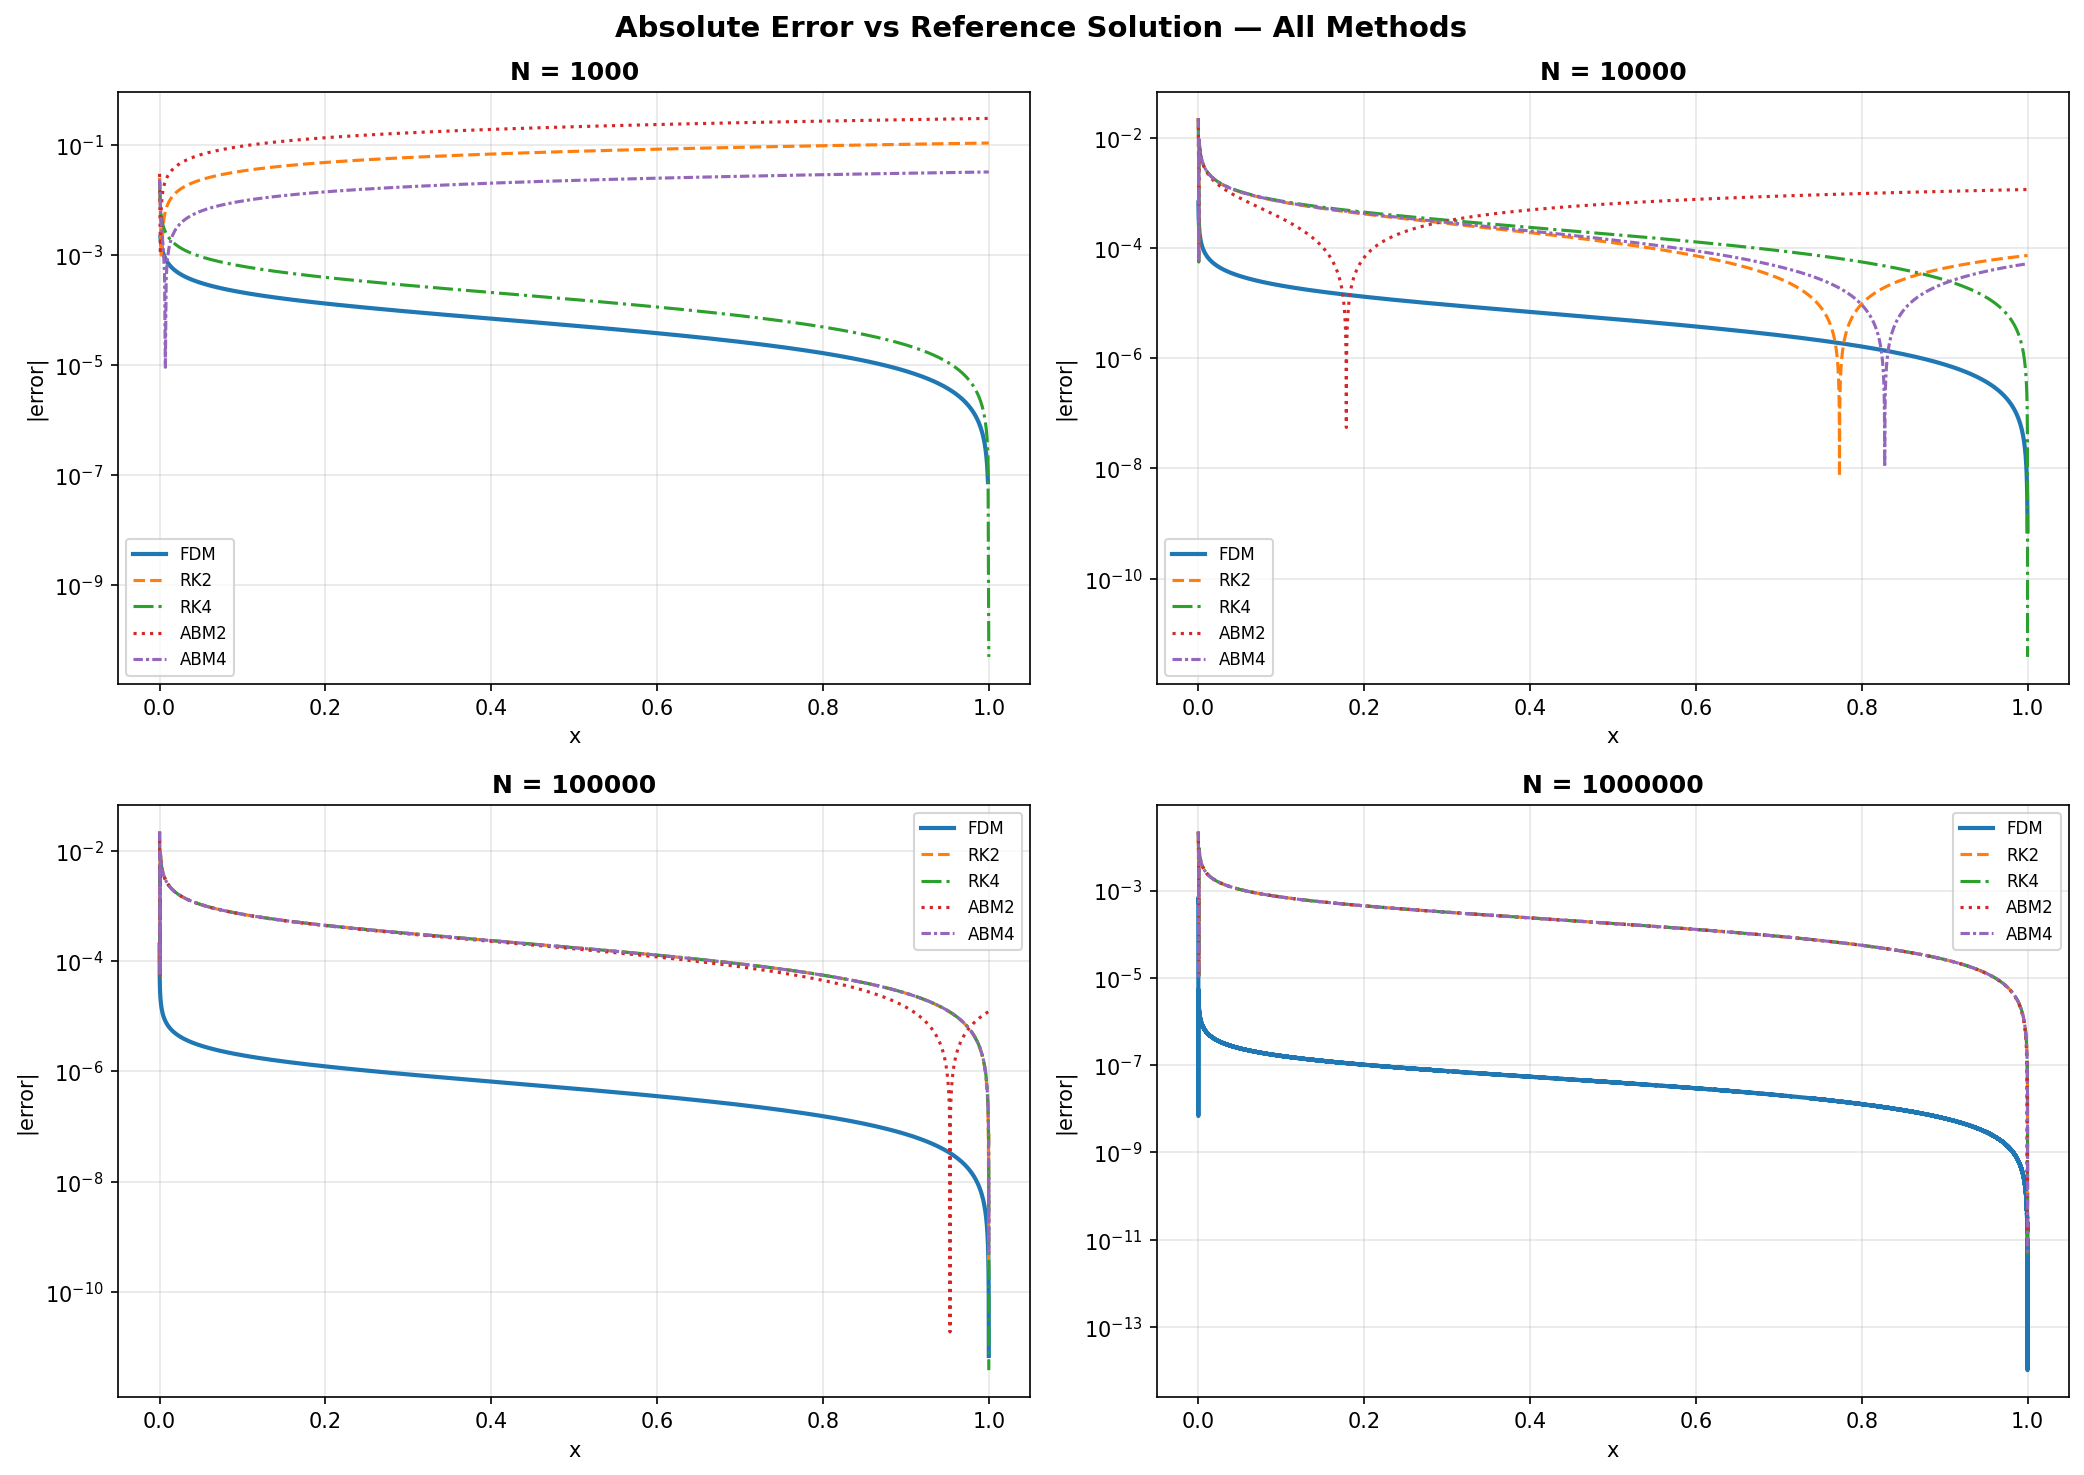
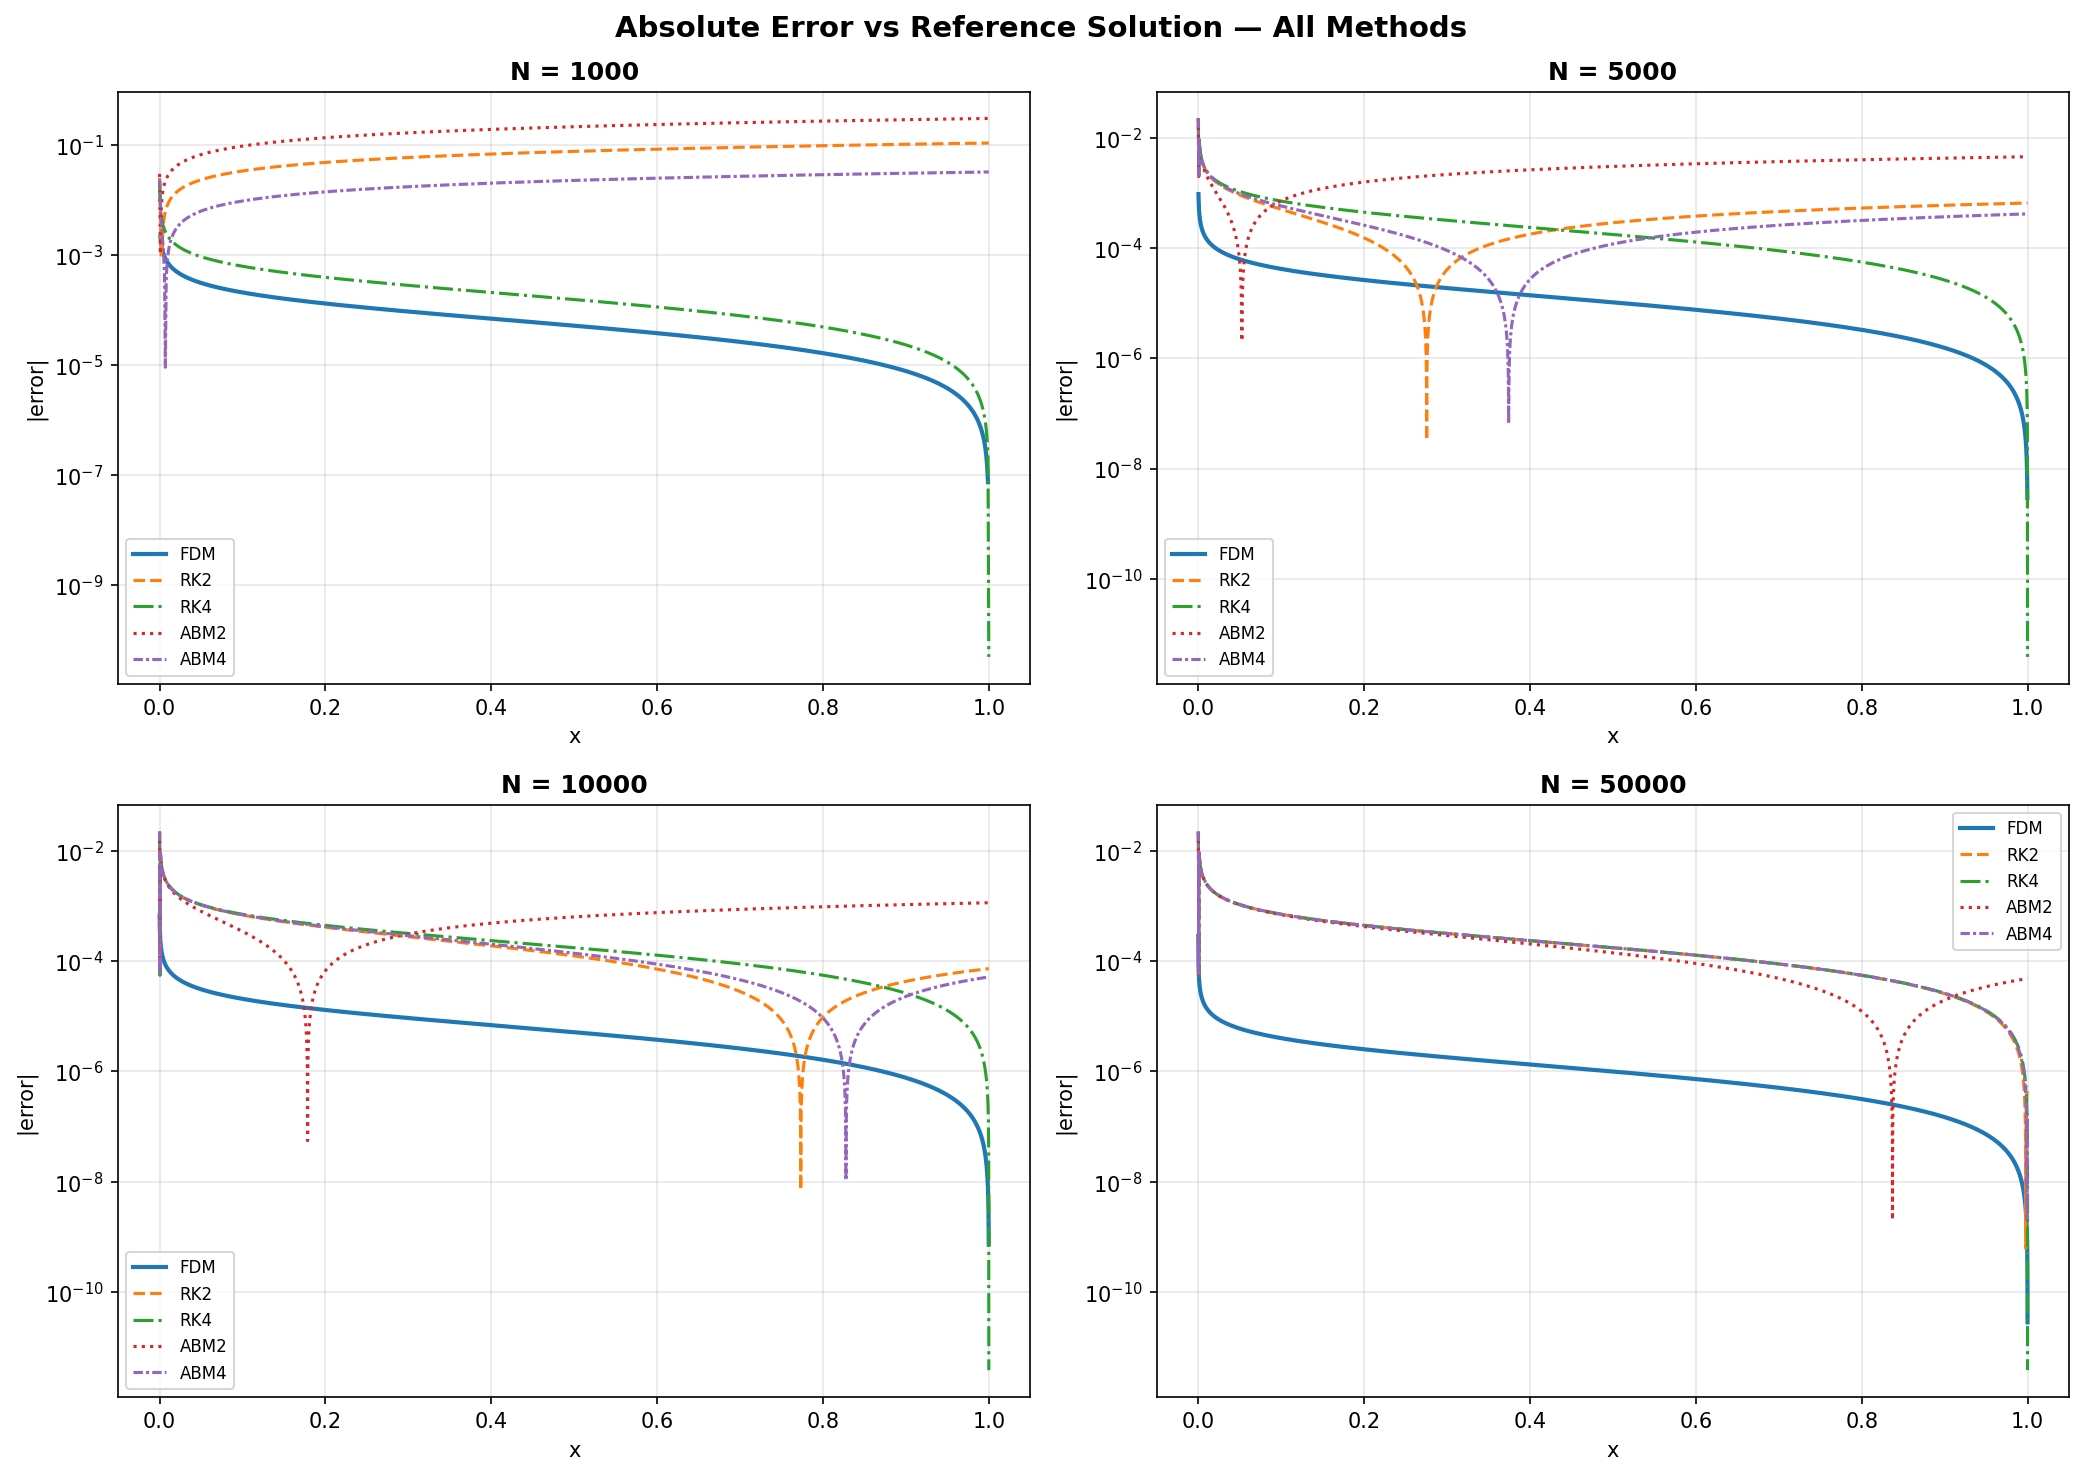
Accuracy finality

diff --git a/Project2/Comparisons/Accuracy_Comp.py b/Project2/Comparisons/Accuracy_Comp.py
@@ -30,9 +30,6 @@ PLOTS_DIR.mkdir(parents=True, exist_ok=True)
 
 f_2 = njit(F_func)
 
-# @njit
-# def f_2(x, u_0, u_1):
-#     return -(u_1)**2/(u_0+1e-4)
 @njit
 def f_1(x, u_0, u_1):
     return u_1
@@ -206,7 +203,7 @@ def SecantMethod(x, nx, h, y_0, ydash1_0, ydash2_0, y_1, tol=1e-6, N=100, Method
 
     ystart = s_1*eps
     sol,x = RK4(x, nx, h, ystart, s_1)
-    print(f"    Secant iterations: {no_of_iterations},  final BC error: {abs(y_1 - sol[nx]):.2e}")
+    # print(f"    Secant iterations: {no_of_iterations},  final BC error: {abs(y_1 - sol[nx]):.2e}")
     return sol,x
 
 # =============================================================================
@@ -252,24 +249,24 @@ Ns = [1000, 10000, 100000, 1000000]
 all_errors = {N: {} for N in Ns}
 
 for N in Ns:
-    print(f"\n{'='*50}")
-    print(f"  N = {N}")
-    print(f"{'='*50}")
+    # print(f"\n{'='*50}")
+    # print(f"  N = {N}")
+    # print(f"{'='*50}")
     x_grid       = np.linspace(domain[0], domain[1], N + 1)
     h            = (domain[1] - domain[0]) / N
     y_ref_interp = np.interp(x_grid, x_ref, y_ref)
 
     # ---- FDM ----
-    print("  FDM...")
+    # print("  FDM...")
     fdm_solver.set_N(N)
     w_fdm = fdm_solver.solver(tol=tol_config, max_iter=max_iter_config)
     err_fdm = np.abs(w_fdm - y_ref_interp)
-    print(f"    max={np.max(err_fdm):.2e},  RMS={np.sqrt(np.mean(err_fdm**2)):.2e}")
+    # print(f"    max={np.max(err_fdm):.2e},  RMS={np.sqrt(np.mean(err_fdm**2)):.2e}")
     all_errors[N]["FDM"] = (x_grid, err_fdm)
 
     # ---- Shooting methods ----
     for name, Method in shooting_methods.items():
-        print(f"  {name}...")
+        # print(f"  {name}...")
         # x grid starts at eps (singularity avoidance)
         x_shoot    = np.linspace(eps, domain[1], N + 1)
         h_shoot = (domain[1] - eps) / N      # <-- matched to shooting grid
@@ -289,12 +286,12 @@ for N in Ns:
         err      = np.abs(w_interp - y_ref_interp)
 
         finite_err = err[np.isfinite(err) & (err > 0)]
-        if len(finite_err) > 0:
-            print(f"    max={np.max(finite_err):.2e},  RMS={np.sqrt(np.mean(finite_err**2)):.2e},  valid_pts={len(finite_err)}/{N+1}")
-        else:
-            print(f"    WARNING: No valid error points — method likely diverged at this N")
-        print("Value of w_interp at x=0:", w_interp[0], "(should be close to y_left =", y_left, ")")
-        print("Value of w_interp at x=1:", w_interp[-1], "(should be close to y_right =", y_right, ")")
+        # if len(finite_err) > 0:
+        #     print(f"    max={np.max(finite_err):.2e},  RMS={np.sqrt(np.mean(finite_err**2)):.2e},  valid_pts={len(finite_err)}/{N+1}")
+        # else:
+        #     print(f"    WARNING: No valid error points — method likely diverged at this N")
+        # print("Value of w_interp at x=0:", w_interp[0], "(should be close to y_left =", y_left, ")")
+        # print("Value of w_interp at x=1:", w_interp[-1], "(should be close to y_right =", y_right, ")")
         all_errors[N][name] = (x_grid, err)
 
 # =============================================================================
@@ -313,8 +310,6 @@ for ax, N in zip(axes.flat, Ns):
         x_grid, err = all_errors[N][name]
         s = method_styles[name]
 
-        # Only plot finite, positive values — semilogy silently drops the
-        # entire line if any NaN/Inf/zero is present without this mask
         valid = np.isfinite(err) & (err > 0)
         if not np.any(valid):
             print(f"  PLOT WARNING: Skipping {name} at N={N} (no valid points)")
@@ -337,14 +332,14 @@ for ax, N in zip(axes.flat, Ns):
 plt.tight_layout()
 save_path = PLOTS_DIR / "Error_Comparison_All_Methods.png"
 plt.savefig(save_path, dpi=150, bbox_inches="tight")
-print(f"\nPlot saved: {save_path}")
+# print(f"\nPlot saved: {save_path}")
 plt.show()
 
 # =============================================================================
 # Summary table: RMS and Max error for every method x N
 # =============================================================================
 
-print("\n" + "=" * 85)
+print("\n" + "=" * 110)
 print(f"{'Method':<8}", end="")
 for N in Ns:
     print(f"  {'N='+str(N):<24}", end="")
@@ -353,7 +348,7 @@ print(f"{'':8}", end="")
 for N in Ns:
     print(f"  {'RMS':<12}{'Max':<12}", end="")
 print()
-print("-" * 85)
+print("-" *110)
 
 for name in method_order:
     print(f"{name:<8}", end="")
@@ -368,5 +363,4 @@ for name in method_order:
             print(f"  {'DIVERGED':<12}{'DIVERGED':<12}", end="")
     print()
 
-print("=" * 85)
-# print(f_1(0,0,1))
+print("=" *110 )

diff --git a/Project2/analysis/Reference.py b/Project2/analysis/Reference.py
@@ -433,13 +433,13 @@ def compute_analytical_error(x, h):
 # =============================================================================
 
 if __name__ == "__main__":
-    print("FDM Solver with Numba @njit (aligned with FDM_Solver class)")
-    print("=" * 60)
-    print(f"Domain:      [{X_START}, {X_END}]")
-    print(f"Grid points: {N + 1}  (N = {N} intervals)")
-    print(f"Left  BC:    {BC_LEFT_A}*y + {BC_LEFT_B}*y' + {BC_LEFT_C} = 0")
-    print(f"Right BC:    {BC_RIGHT_A}*y + {BC_RIGHT_B}*y' + {BC_RIGHT_C} = 0")
-    print(f"Config:      {config_path}\n")
+    # print("FDM Solver with Numba @njit (aligned with FDM_Solver class)")
+    # print("=" * 60)
+    # print(f"Domain:      [{X_START}, {X_END}]")
+    # print(f"Grid points: {N + 1}  (N = {N} intervals)")
+    # print(f"Left  BC:    {BC_LEFT_A}*y + {BC_LEFT_B}*y' + {BC_LEFT_C} = 0")
+    # print(f"Right BC:    {BC_RIGHT_A}*y + {BC_RIGHT_B}*y' + {BC_RIGHT_C} = 0")
+    # print(f"Config:      {config_path}\n")
 
     # Setup grid
     x = np.linspace(X_START, X_END, N + 1)
@@ -467,7 +467,7 @@ if __name__ == "__main__":
     # ------------------------------------------------------------------
     # Solve the actual problem
     # ------------------------------------------------------------------
-    print(f"Solving with tolerance={tol_config}, max_iter={max_iter_config}")
+    # print(f"Solving with tolerance={tol_config}, max_iter={max_iter_config}")
     t0 = time.time()
     w_solution, n_iters, converged = newton_solve_jit(
         F_jit, Fy_jit, Fyp_jit,
@@ -487,12 +487,12 @@ if __name__ == "__main__":
         )
     ref_path = YREF_DIR / "y_ref.txt"
     np.savetxt(ref_path, w_solution[::250], fmt="%.15e")
-    print(f"Reference solution saved to: {ref_path}\n")
+    # print(f"Reference solution saved to: {ref_path}\n")
     # ------------------------------------------------------------------
     # Error analysis and plotting
     # ------------------------------------------------------------------
     if analytical_solution is not None:
-        print("Error Analysis:")
+        # print("Error Analysis:")
         max_error, rms_error = compute_error(w_solution, x)
         print(f"  Max absolute error: {max_error:.8e}")
         print(f"  RMS error:          {rms_error:.8e}\n")
@@ -547,16 +547,3 @@ if __name__ == "__main__":
 
     else:
         print("No analytical solution available\n")
-
-        # plt.figure(figsize=(8.85, 6))
-        # plt.plot(x, w_solution, 'b-', linewidth=2, label='FDM Solution')
-        # plt.xlabel('x')
-        # plt.ylabel('y')
-        # plt.title('FDM BVP Numerical Solution')
-        # plt.grid(True, alpha=0.3)
-        # plt.legend()
-        # plt.tight_layout()
-        # save_path = PLOTS_DIR / 'FDM_Solution.png'
-        # plt.savefig(save_path, dpi=150)
-        # print(f"Plot saved to: {save_path}")
-        # plt.show()

diff --git a/Project2/analysis/Accuracy.py b/Project2/analysis/Accuracy.py
@@ -22,20 +22,9 @@ from Project2.Core.FDM_Solver import FDM_Solver
 PLOTS_DIR = Path(__file__).parent.parent / "outputs" / "plots"
 PLOTS_DIR.mkdir(parents=True, exist_ok=True)
 
-	# def F(x, y, yp):
-	# # 	# y'' = F(x,y,y') used in reference implementation
-	# 	return -(yp ** 2) / (y + 1e-4)
-
 path = os.path.join(os.path.dirname(__file__), "y_ref.txt")
 y_ref = np.loadtxt(path)
 x_ref = np.linspace(0.0, 1.0, len(y_ref))
-
-
-# Load reference solution
-# y_ref, x_ref = load_reference()
-
-	# Boundary conditions: y(0)=0, y(1)=1 encoded as a*y + b*y' + c = 0
-# BC = np.array([[1.0, 0.0, 0.0], [1.0, 0.0, -1.0]])
 
 Ns = [10, 100, 1000, 10000]
 errors = {}
@@ -54,16 +43,15 @@ for N in Ns:
 	# Plot all error curves on one figure
 plt.figure(figsize=(10, 6))
 for N, (x, err) in errors.items():
-	plt.plot(x, err, label=f"N={N}")
+	plt.semilogy(x, err, label=f"N={N}")
 plt.xlabel("x")
-plt.ylabel("Absolute Error |$y_N$ - $y_ref$|")
-plt.title("Absolute Error of FDM solutions for various N values")
+plt.ylabel("Absolute Error |$y_N$ - $y_{ref}$|")
+plt.title("Absolute Error of FDM solutions for various N values (log scale)")
 plt.legend()
-plt.grid(True)
+plt.grid(True, which="both", alpha=0.3)
 plt.tight_layout()
 save_path = PLOTS_DIR / 'Errors for various N values.png'
 plt.savefig(save_path, dpi=150)
-print(f"\nPlot saved to: {save_path}")
 plt.show()
 
 # Print RMS and Max error for each N
